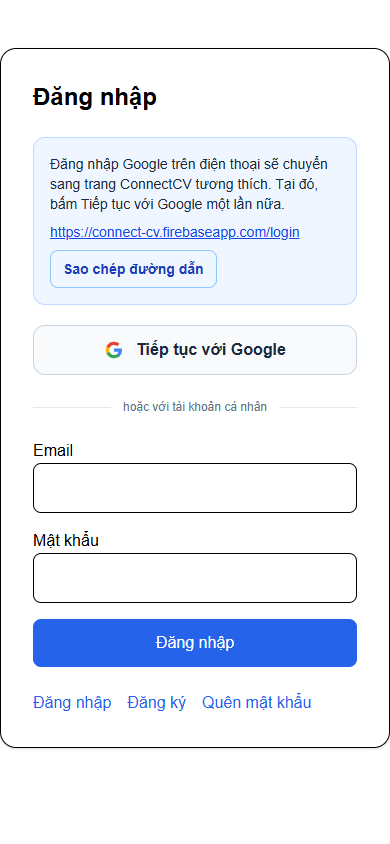
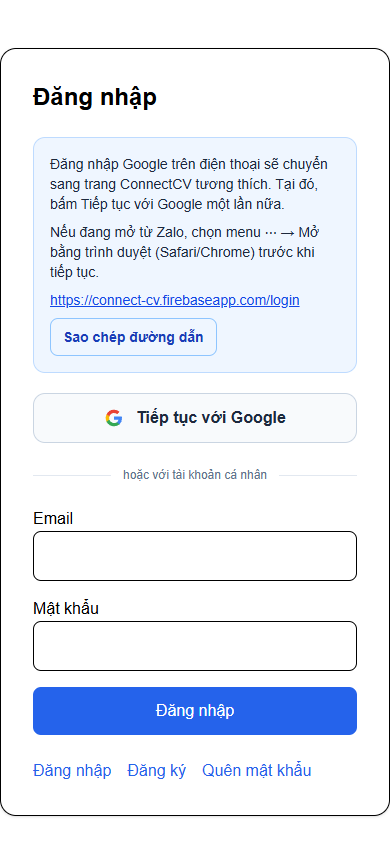
fix(auth): keep Zalo recovery visible when browser identity is hidden

diff --git a/frontend/src/pages/AuthPage.jsx b/frontend/src/pages/AuthPage.jsx
@@ -43,6 +43,7 @@ export default function AuthPage({mode='login'}){
  return <main className="max-w-md mx-auto my-12 p-8 bg-white rounded-2xl border shadow-sm"><h1 className="text-2xl font-bold mb-6">{mode==='signup'?'Tạo tài khoản':mode==='reset'?'Đặt lại mật khẩu':'Đăng nhập'}</h1>
  {mode!=='reset'&&<aside className="mb-5 rounded-xl border border-blue-200 bg-blue-50 p-4 text-sm text-slate-800" aria-label="Đăng nhập trên điện thoại">
  <p>{googleFlow==='external-browser'?'Đang mở trong Zalo hoặc ứng dụng khác? Chọn menu ⋯ → Mở bằng trình duyệt (Safari/Chrome) trước khi đăng nhập Google.':googleFlow==='handoff'?'Đăng nhập Google trên điện thoại sẽ chuyển sang trang ConnectCV tương thích. Tại đó, bấm Tiếp tục với Google một lần nữa.':googleFlow==='redirect'?'Bấm Tiếp tục với Google để đăng nhập. Bạn sẽ quay lại ConnectCV trong trình duyệt này.':'Nếu mở từ Zalo, hãy dùng menu ⋯ → Mở bằng trình duyệt để đăng nhập trên Safari/Chrome.'}</p>
+ {(googleFlow==='handoff'||googleFlow==='redirect')&&<p className="mt-2">Nếu đang mở từ Zalo, chọn menu ⋯ → Mở bằng trình duyệt (Safari/Chrome) trước khi tiếp tục.</p>}
  <a href={GOOGLE_LOGIN_URL} className="mt-2 block break-all text-blue-700 underline">{GOOGLE_LOGIN_URL}</a>
  <button type="button" onClick={copyLoginUrl} className="mt-2 rounded-lg border border-blue-300 px-3 py-2 font-semibold text-blue-800">{copied?'Đã sao chép đường dẫn':'Sao chép đường dẫn'}</button>
  <span role="status" aria-live="polite" className="sr-only">{copied?'Đã sao chép đường dẫn đăng nhập. Mở Safari hoặc Chrome và dán đường dẫn.':''}</span>
